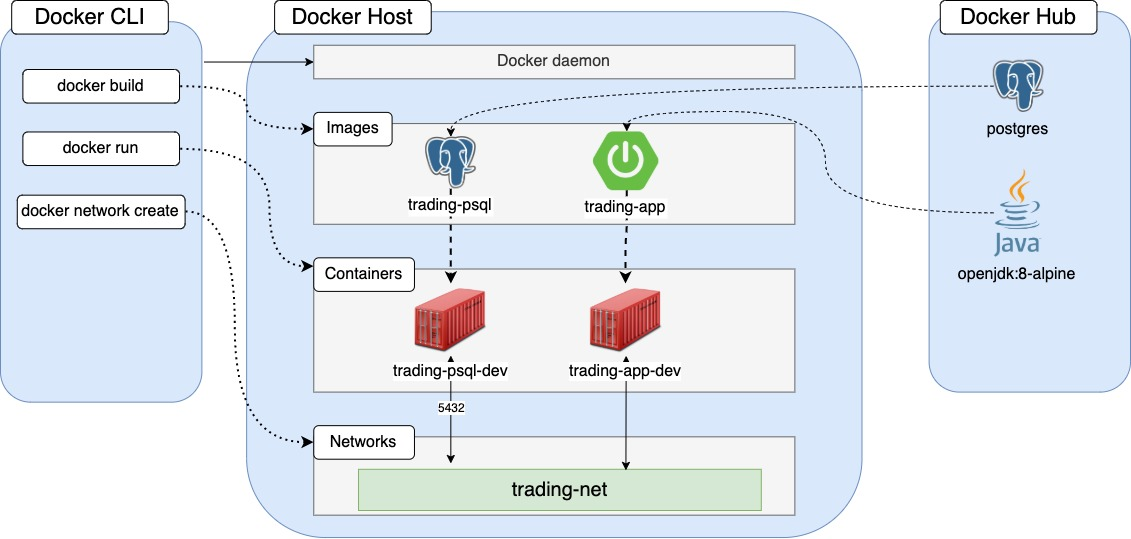
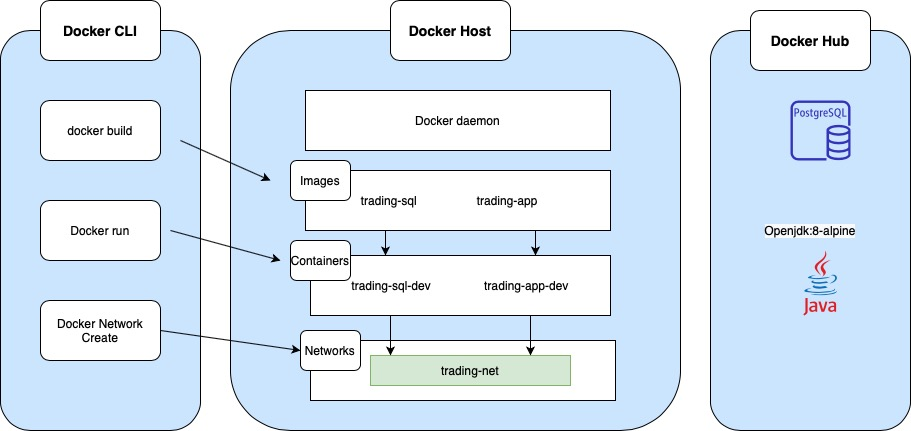
Modified readmefile images

diff --git a/springboot/README.md b/springboot/README.md
@@ -77,7 +77,7 @@ This Microservice MVC architecture application is built with the Springboot fram
 
 ![Swagger](./assets/Swagger_Screenshot.png)
 ## Architecture
-![Architecture](./assets/trading_app_arch.jpg)
+![Architecture](./assets/Architecture.jpg)
 
   - **Controller layer**: Handles HTTP requests. Web Servlet maps each request to the corresponding service class.
   - **Service layer**: Handles business logics and processing validation. For example, it allows processing an order only if it is not empty. 
